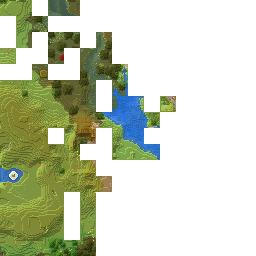
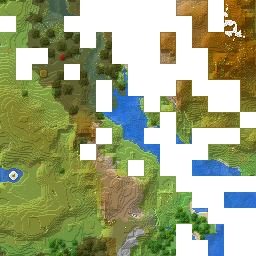
map update
map update

diff --git a/brentyns.com/public/unmined/unmined.map.regions.js b/brentyns.com/public/unmined/unmined.map.regions.js
@@ -1,6 +1,6 @@
 var UnminedRegions = [
 { x: 0, z: 0, m: new Uint32Array([1,0,0,0,0,0,0,0,0,0,0,0,0,0,0,0,0,0,0,0,0,0,0,0,0,0,0,0,0,0,0,0,0,0,0,0,0,0,0,0,0,0,0,0,0,0,0,0,0,0,0,0,0,0,0,0,0,0,0,0,0,0,0,0,0,0,0,0,0,0,0,0,0,0,0,0,0,0,0,0,0,0,0,0,0,0,0,0,0,0,0,0,0,0,0,0,0,0,0,0,0,0,0,0,0,0,0,0,0,0,0,0,0,0,0,0,0,0,0,0,0,0,0,0,0,0,0,0,0,0,0,0,0,0,0,0,0,0,0,0,0,0,0,0,0,0,0,0,0,0,0,0,0,0,0,0,0,0,0,0,0,0,0,0,0,0,0,0,0,0,0,0,0,0,0,0,0,0,0,0,0,0,0,0,0,0,0,0,0,0,0,0,0,0,0,0,0,0,0,0,0,0,0,0,0,0,0,0,0,0,0,0,0,0,0,0,0,0,0,0,0,0,0,0,0,0,0,0,0,0,0,0,0,0,0,0,0,0,0,0,0,0,0,0,0,0,0,0,0,0,0,0,0,0,0,0]) },
-{ x: 0, z: -1, m: new Uint32Array([0,0,0,0,0,0,0,0,0,0,0,0,0,0,0,0,0,0,0,0,0,0,0,0,0,0,0,0,0,0,1,1,0,0,0,0,0,0,0,0,0,0,0,0,0,0,0,0,0,0,0,0,0,0,0,0,0,0,0,0,0,0,0,0,0,0,0,0,0,0,0,0,0,0,0,0,0,0,0,0,0,0,0,0,0,0,0,0,0,0,0,0,0,0,0,0,0,0,0,0,0,0,0,0,0,0,0,0,0,0,0,0,0,0,0,0,0,0,0,0,0,0,0,0,0,0,0,0,0,0,0,0,0,0,0,0,0,0,0,0,0,0,0,0,0,0,0,0,0,0,0,0,0,0,0,0,0,0,0,0,0,0,0,0,0,0,0,0,0,0,0,0,0,0,0,0,0,0,0,0,0,0,0,0,0,0,0,0,0,0,0,0,0,0,0,0,0,0,0,0,0,0,0,0,0,0,0,0,0,0,0,0,0,0,0,0,0,0,0,0,0,0,0,0,0,0,0,0,0,0,0,0,0,0,0,0,0,0,0,0,0,0,0,0,0,0,0,0,0,0,0,0,0,0,0,0]) },
+{ x: 0, z: -1, m: new Uint32Array([0,0,0,0,0,0,0,0,0,0,0,0,0,0,0,0,0,0,0,0,0,0,0,0,0,0,0,0,0,0,1,3,0,0,0,0,0,0,0,0,0,0,0,0,0,0,0,0,0,0,0,0,0,0,0,0,0,0,0,0,0,0,0,0,0,0,0,0,0,0,0,0,0,0,0,0,0,0,0,0,0,0,0,0,0,0,0,0,0,0,0,0,0,0,0,0,0,0,0,0,0,0,0,0,0,0,0,0,0,0,0,0,0,0,0,0,0,0,0,0,0,0,0,0,0,0,0,0,0,0,0,0,0,0,0,0,0,0,0,0,0,0,0,0,0,0,0,0,0,0,0,0,0,0,0,0,0,0,0,0,0,0,0,0,0,0,0,0,0,0,0,0,0,0,0,0,0,0,0,0,0,0,0,0,0,0,0,0,0,0,0,0,0,0,0,0,0,0,0,0,0,0,0,0,0,0,0,0,0,0,0,0,0,0,0,0,0,0,0,0,0,0,0,0,0,0,0,0,0,0,0,0,0,0,0,0,0,0,0,0,0,0,0,0,0,0,0,0,0,0,0,0,0,0,0,0]) },
 { x: -1, z: 0, m: new Uint32Array([3221225472,0,0,0,0,0,0,0,0,0,0,0,0,0,0,0,0,0,0,0,0,0,0,0,0,0,0,0,0,0,0,0,0,0,0,0,0,0,0,0,0,0,0,0,0,0,0,0,0,0,0,0,0,0,0,0,0,0,0,0,0,0,0,0,0,0,0,0,0,0,0,0,0,0,0,0,0,0,0,0,0,0,0,0,0,0,0,0,0,0,0,0,0,0,0,0,0,0,0,0,0,0,0,0,0,0,0,0,0,0,0,0,0,0,0,0,0,0,0,0,0,0,0,0,0,0,0,0,0,0,0,0,0,0,0,0,0,0,0,0,0,0,0,0,0,0,0,0,0,0,0,0,0,0,0,0,0,0,0,0,0,0,0,0,0,0,0,0,0,0,0,0,0,0,0,0,0,0,0,0,0,0,0,0,0,0,0,0,0,0,0,0,0,0,0,0,0,0,0,0,0,0,0,0,0,0,0,0,0,0,0,0,0,0,0,0,0,0,0,0,0,0,0,0,0,0,0,0,0,0,0,0,0,0,0,0,0,0,0,0,0,0,0,0,0,0,0,0,0,0,0,0,0,0,0,0]) },
 { x: -1, z: -1, m: new Uint32Array([0,0,0,0,0,0,0,0,0,0,0,0,0,0,0,0,0,0,0,0,0,0,0,0,0,0,0,0,0,0,2147483648,3221225472,0,0,0,0,0,0,0,0,0,0,0,0,0,0,0,0,0,0,0,0,0,0,0,0,0,0,0,0,0,0,0,0,0,0,0,0,0,0,0,0,0,0,0,0,0,0,0,0,0,0,0,0,0,0,0,0,0,0,0,0,0,0,0,0,0,0,0,0,0,0,0,0,0,0,0,0,0,0,0,0,0,0,0,0,0,0,0,0,0,0,0,0,0,0,0,0,0,0,0,0,0,0,0,0,0,0,0,0,0,0,0,0,0,0,0,0,0,0,0,0,0,0,0,0,0,0,0,0,0,0,0,0,0,0,0,0,0,0,0,0,0,0,0,0,0,0,0,0,0,0,0,0,0,0,0,0,0,0,0,0,0,0,0,0,0,0,0,0,0,0,0,0,0,0,0,0,0,0,0,0,0,0,0,0,0,0,0,0,0,0,0,0,0,0,0,0,0,0,0,0,0,0,0,0,0,0,0,0,0,0,0,0,0,0,0,0,0,0,0,0,0,0,0,0]) },
 ];

diff --git a/brentyns.com/public/unmined/unmined.map.properties.js b/brentyns.com/public/unmined/unmined.map.properties.js
@@ -6,7 +6,7 @@ var UnminedMapProperties = {
     imageFormat: "jpeg",
     minRegionX: -2,
     minRegionZ: -2,
-    maxRegionX: 0,
+    maxRegionX: 1,
     maxRegionZ: 0,
     worldName: "Bedrock level",
     background: "",
